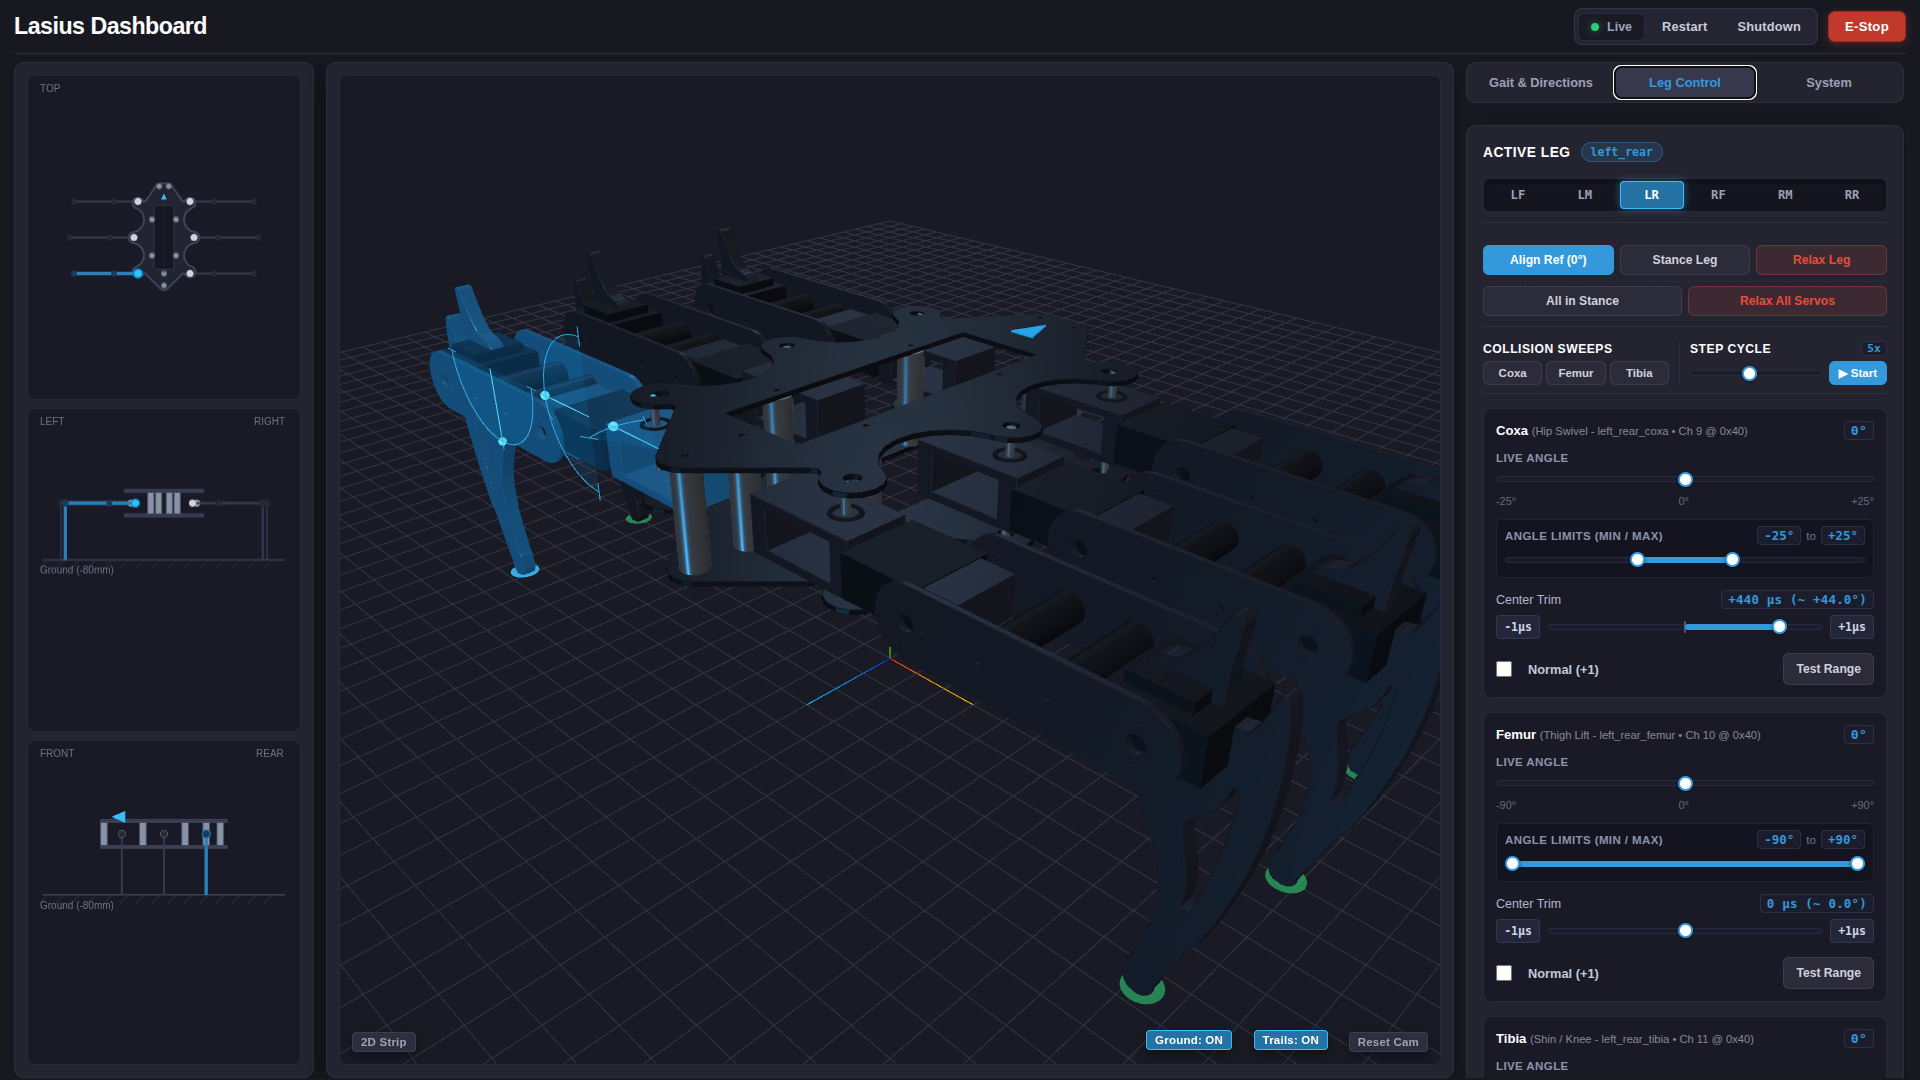
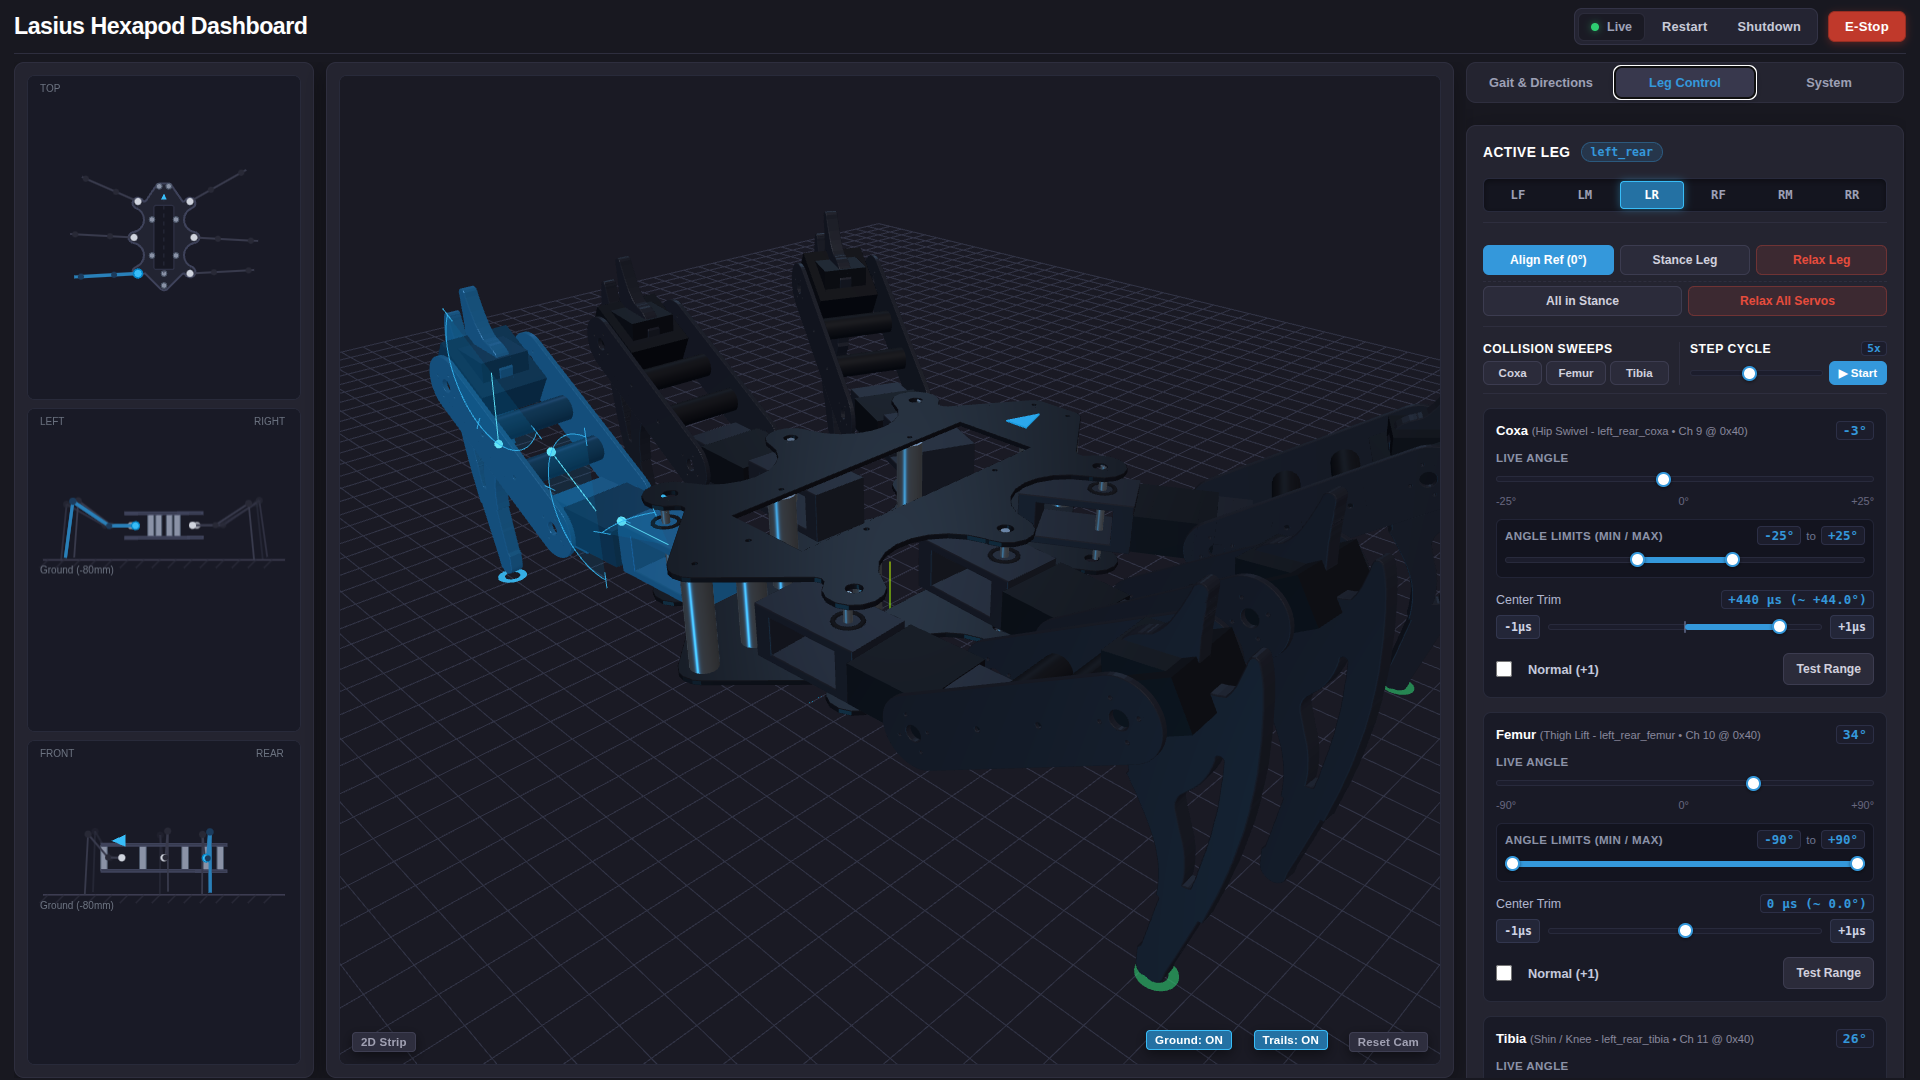
feat(dashboard): rename header to 'Lasius Hexapod Dashboard' and refresh screenshots

diff --git a/software/lasius-dashboard/index.html b/software/lasius-dashboard/index.html
@@ -3,7 +3,7 @@
 <head>
     <meta charset="UTF-8">
     <meta name="viewport" content="width=device-width, initial-scale=1.0">
-    <title>Lasius Dashboard - 3D Digital Twin</title>
+    <title>Lasius Hexapod Dashboard - 3D Digital Twin</title>
 </head>
 <body>
     <div id="app"></div>

diff --git a/software/lasius-dashboard/src/components/AppHeader.vue b/software/lasius-dashboard/src/components/AppHeader.vue
@@ -125,7 +125,7 @@ function handleEstop() {
 <template>
   <header>
     <div class="header-left">
-      <h1>Lasius Dashboard</h1>
+      <h1>Lasius Hexapod Dashboard</h1>
     </div>
     <div class="header-right">
       <div class="server-toolbar">
